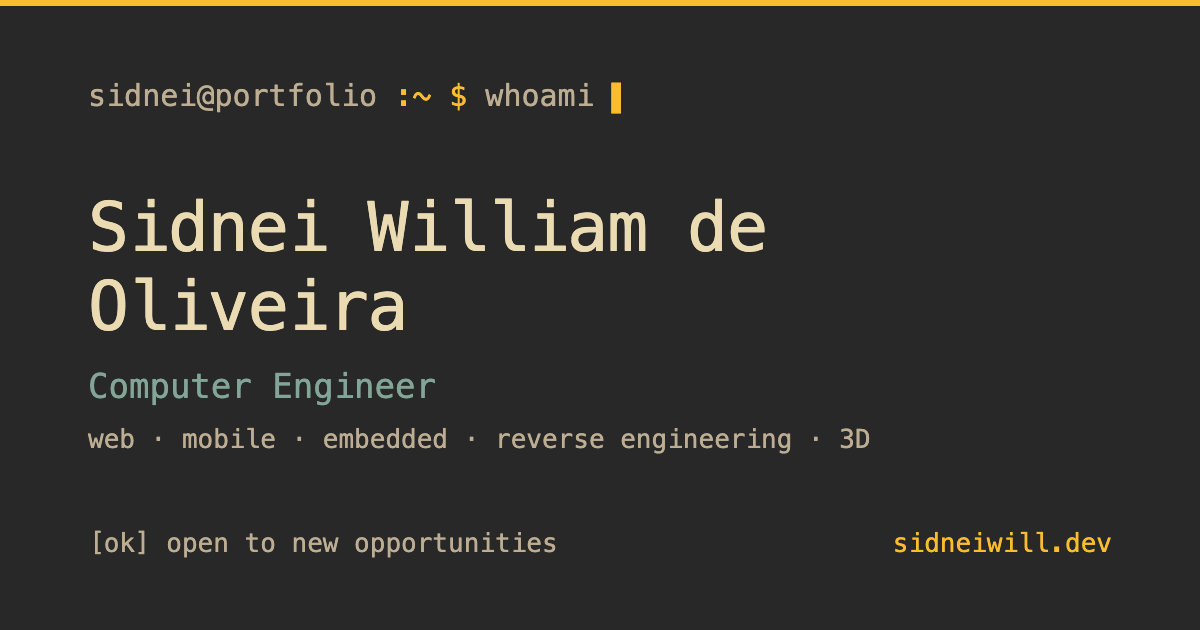
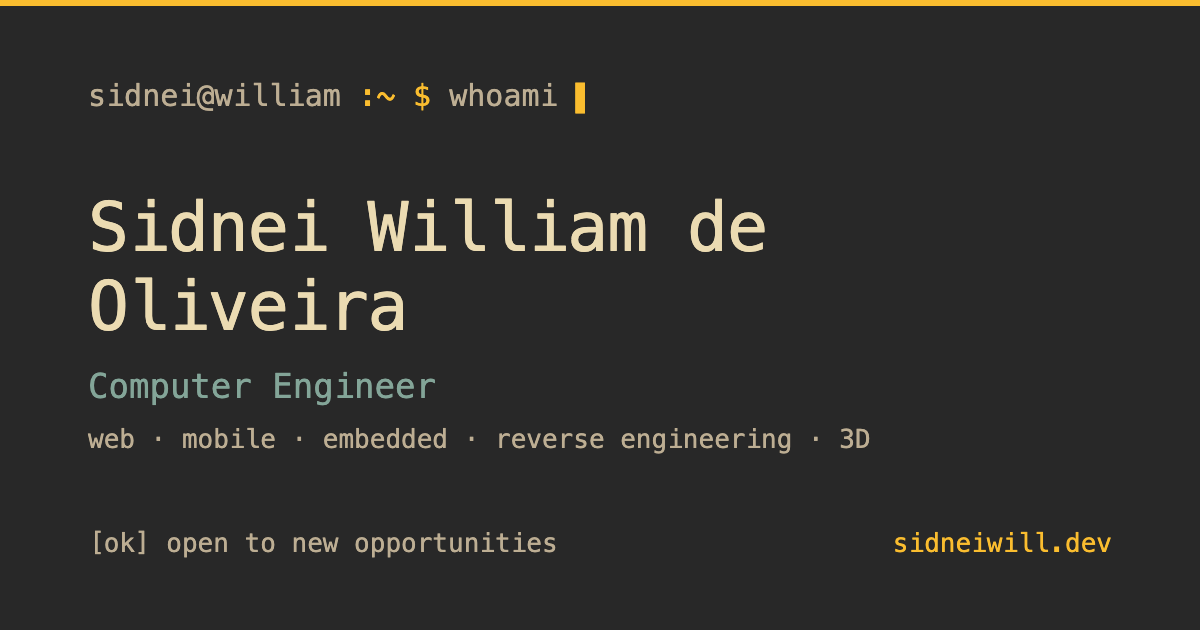
feat: rename terminal host to sidnei@william

Changed region(s): [[0.185, 0.1206, 0.5242, 0.181]]

diff --git a/src/features/layout/SiteHeader.vue b/src/features/layout/SiteHeader.vue
@@ -25,7 +25,7 @@ defineEmits<{
   <header class="site-header" :aria-label="labels.site">
     <div class="site-header-inner">
       <a class="brand" href="#main" aria-label="Sidnei William de Oliveira">
-        <span class="brand-text">sidnei<span class="terminal-at">@</span>portfolio</span>
+        <span class="brand-text">sidnei<span class="terminal-at">@</span>william</span>
         <span class="brand-mark" aria-hidden="true">:~ $</span>
         <span class="terminal-cursor" aria-hidden="true">▌</span>
       </a>
